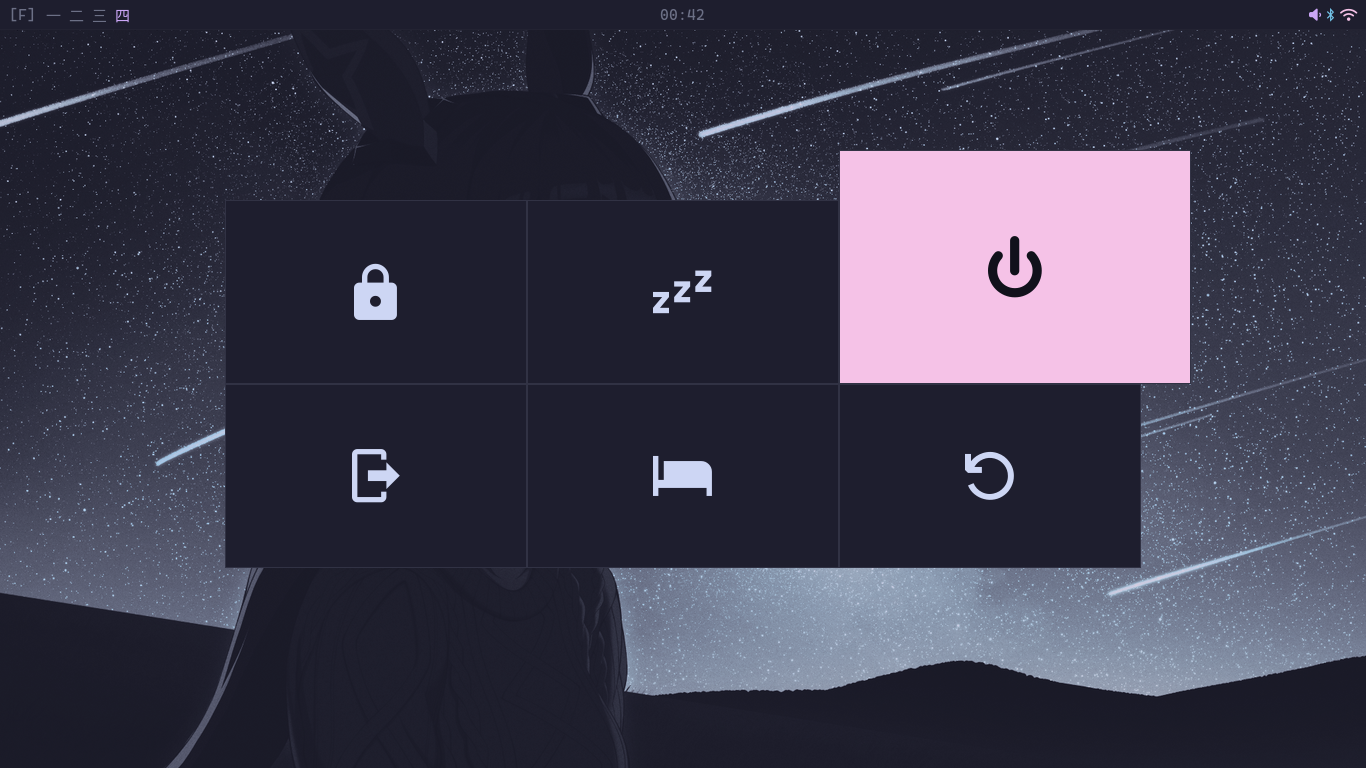
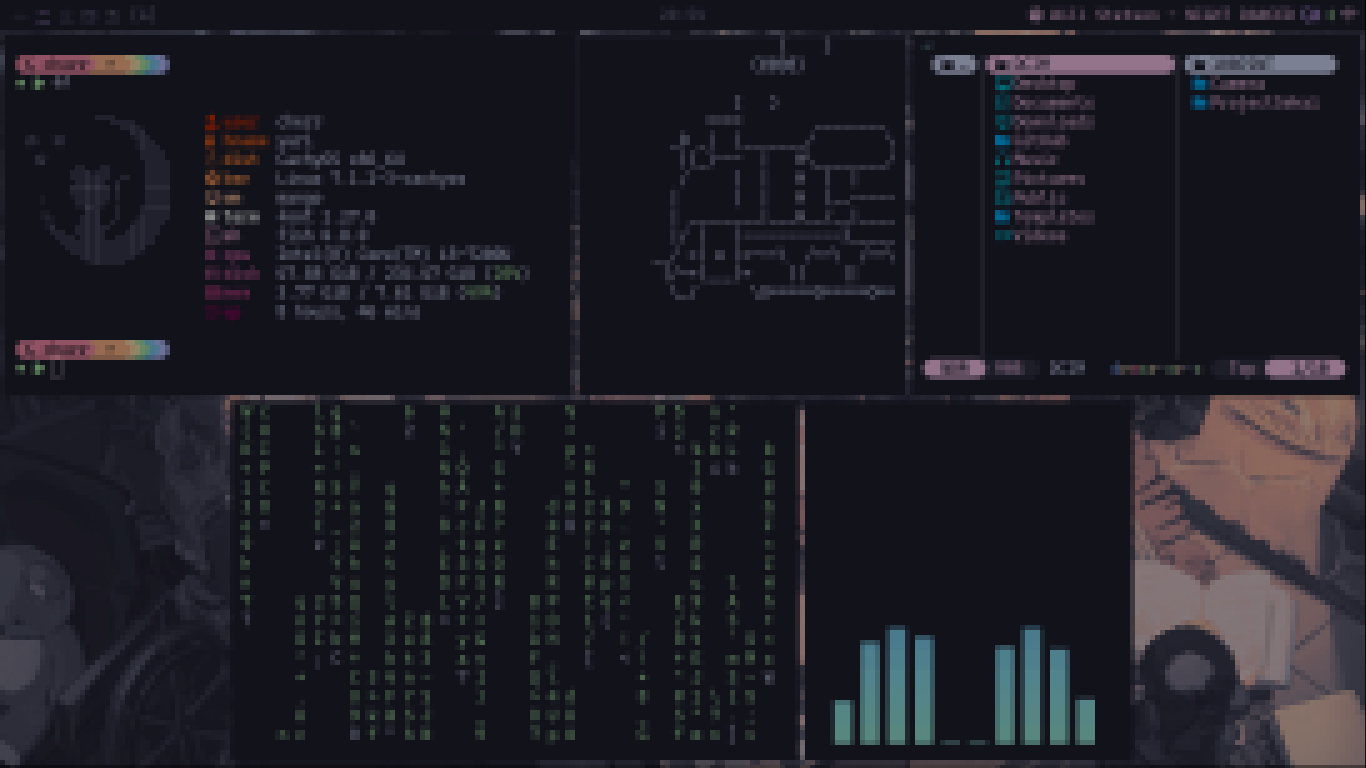
chore(README): update screenshots

diff --git a/README.md b/README.md
@@ -30,7 +30,7 @@
 | ![](/assets/clean.png) | ![](/assets/monkeytype.png) |
 | --- | --- |
 | ![](/assets/fetch.png) | ![](/assets/terminals.png) |
-| ![](/assets/lockscreen.png) |  |
+| ![](/assets/wlogout.png) | ![](/assets/lockscreen.png) |
 
 ### How to get this?
 